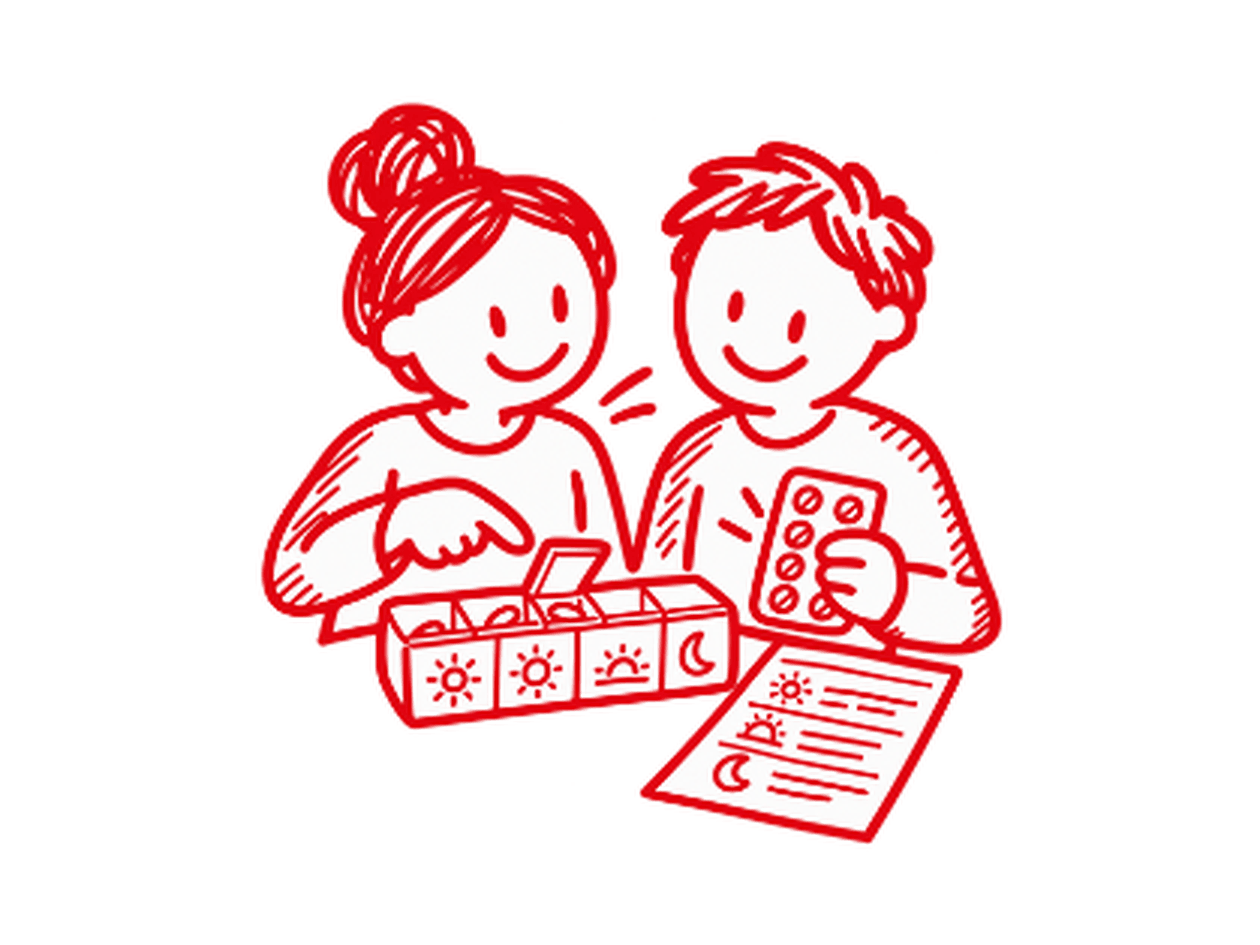
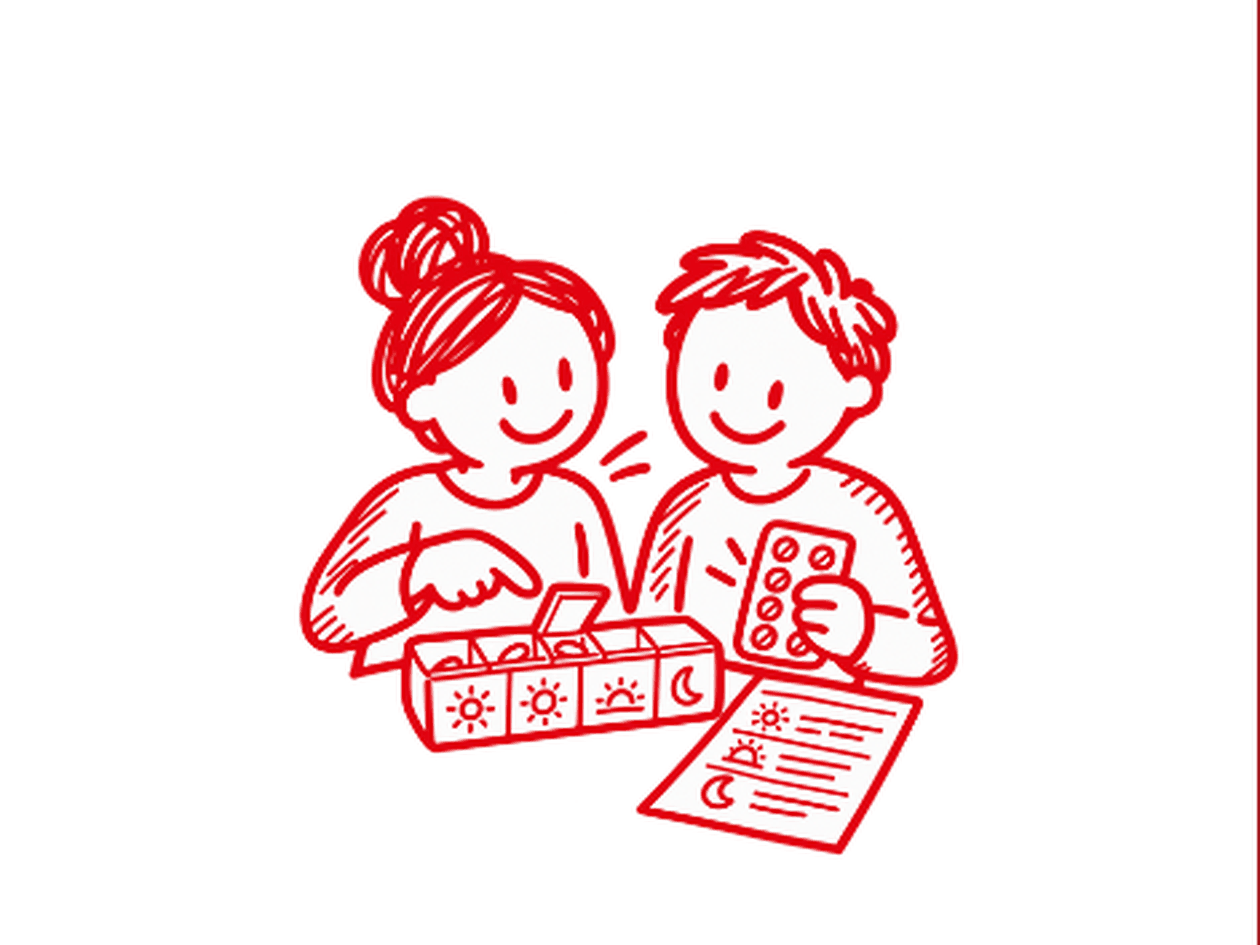
Re-crop Zielgruppen illustrations with more top headroom
The "Meine Angehörigen" character's hair bun reached close to the
top of the frame, leaving no way to position the badge above it
without either covering it or drifting down into the artwork below.
Re-cropped both illustrations from the original source images with
asymmetric padding (30% top vs. 14% on other sides), giving the
badge real empty space to sit in. Badge position restored to the
original top: 14px.

Claude-Session: https://claude.ai/code/session_01XLhHeWYtKyT8mPMe2s9Kra

Changed region(s): [[0.1857, 0.0921, 0.8048, 0.9206], [0.9905, 0.0, 1.0, 1.0]]

diff --git a/css/style.css b/css/style.css
@@ -433,7 +433,7 @@ img { max-width: 100%; display: block; }
 }
 .zg-badge {
   position: absolute;
-  top: 10px;
+  top: 14px;
   left: 14px;
   display: inline-flex;
   align-items: center;
